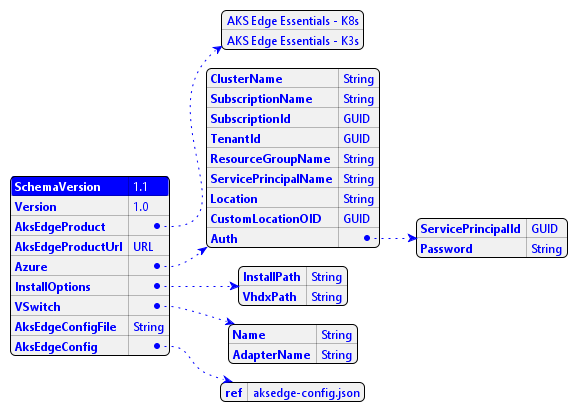
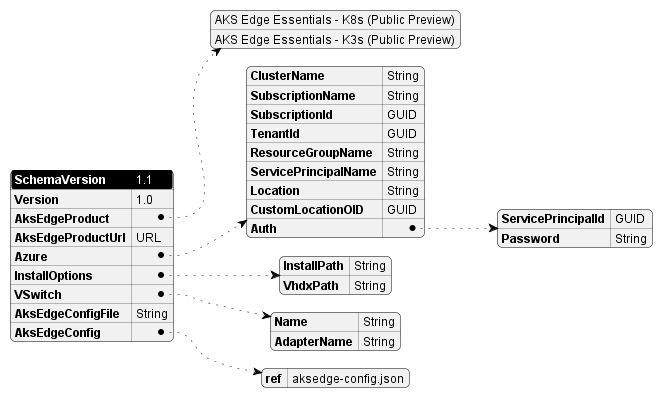
PP refresh

diff --git a/tools/modules/AksEdgeDeploy/README.md b/tools/modules/AksEdgeDeploy/README.md
@@ -18,7 +18,7 @@ The `Start-AideWorkflow` function in the modole does the following:
     {
         "SchemaVersion": "1.1",
         "Version": "1.0",
-        "AksEdgeProduct" : "AKS Edge Essentials - K3s",
+        "AksEdgeProduct" : "AKS Edge Essentials - K8s (Public Preview)",
         "AksEdgeConfig": {
             "SchemaVersion": "1.5",
             "Version": "1.0",
@@ -48,7 +48,7 @@ The `Start-AideWorkflow` function in the modole does the following:
             "SubscriptionName":"Visual Studio Enterprise",
             "SubscriptionId": "",
             "TenantId":"",
-            "ResourceGroupName": "aksedge-rg",
+            "ResourceGroupName": "aksedgepreview-rg",
             "ServicePrincipalName" : "aksedge-sp",
             "Location" : "EastUS"
         }

diff --git a/tools/scripts/AksEdgeRemoteDeploy/README.md b/tools/scripts/AksEdgeRemoteDeploy/README.md
@@ -1,6 +1,6 @@
 # AKS Edge Essentials Remote Deployment
 
-AksEdgeRemoteDeploy enables you to deploy the AKS Edge Essentials using AksEdgeDeploy module through Intune, Arc for Server channels.
+AksEdgeRemoteDeploy enables you to deploy the AKS Edge Essentials (Public Preview) using AksEdgeDeploy module through Intune, Arc for Server channels.
 
 ## Via Intune
 
